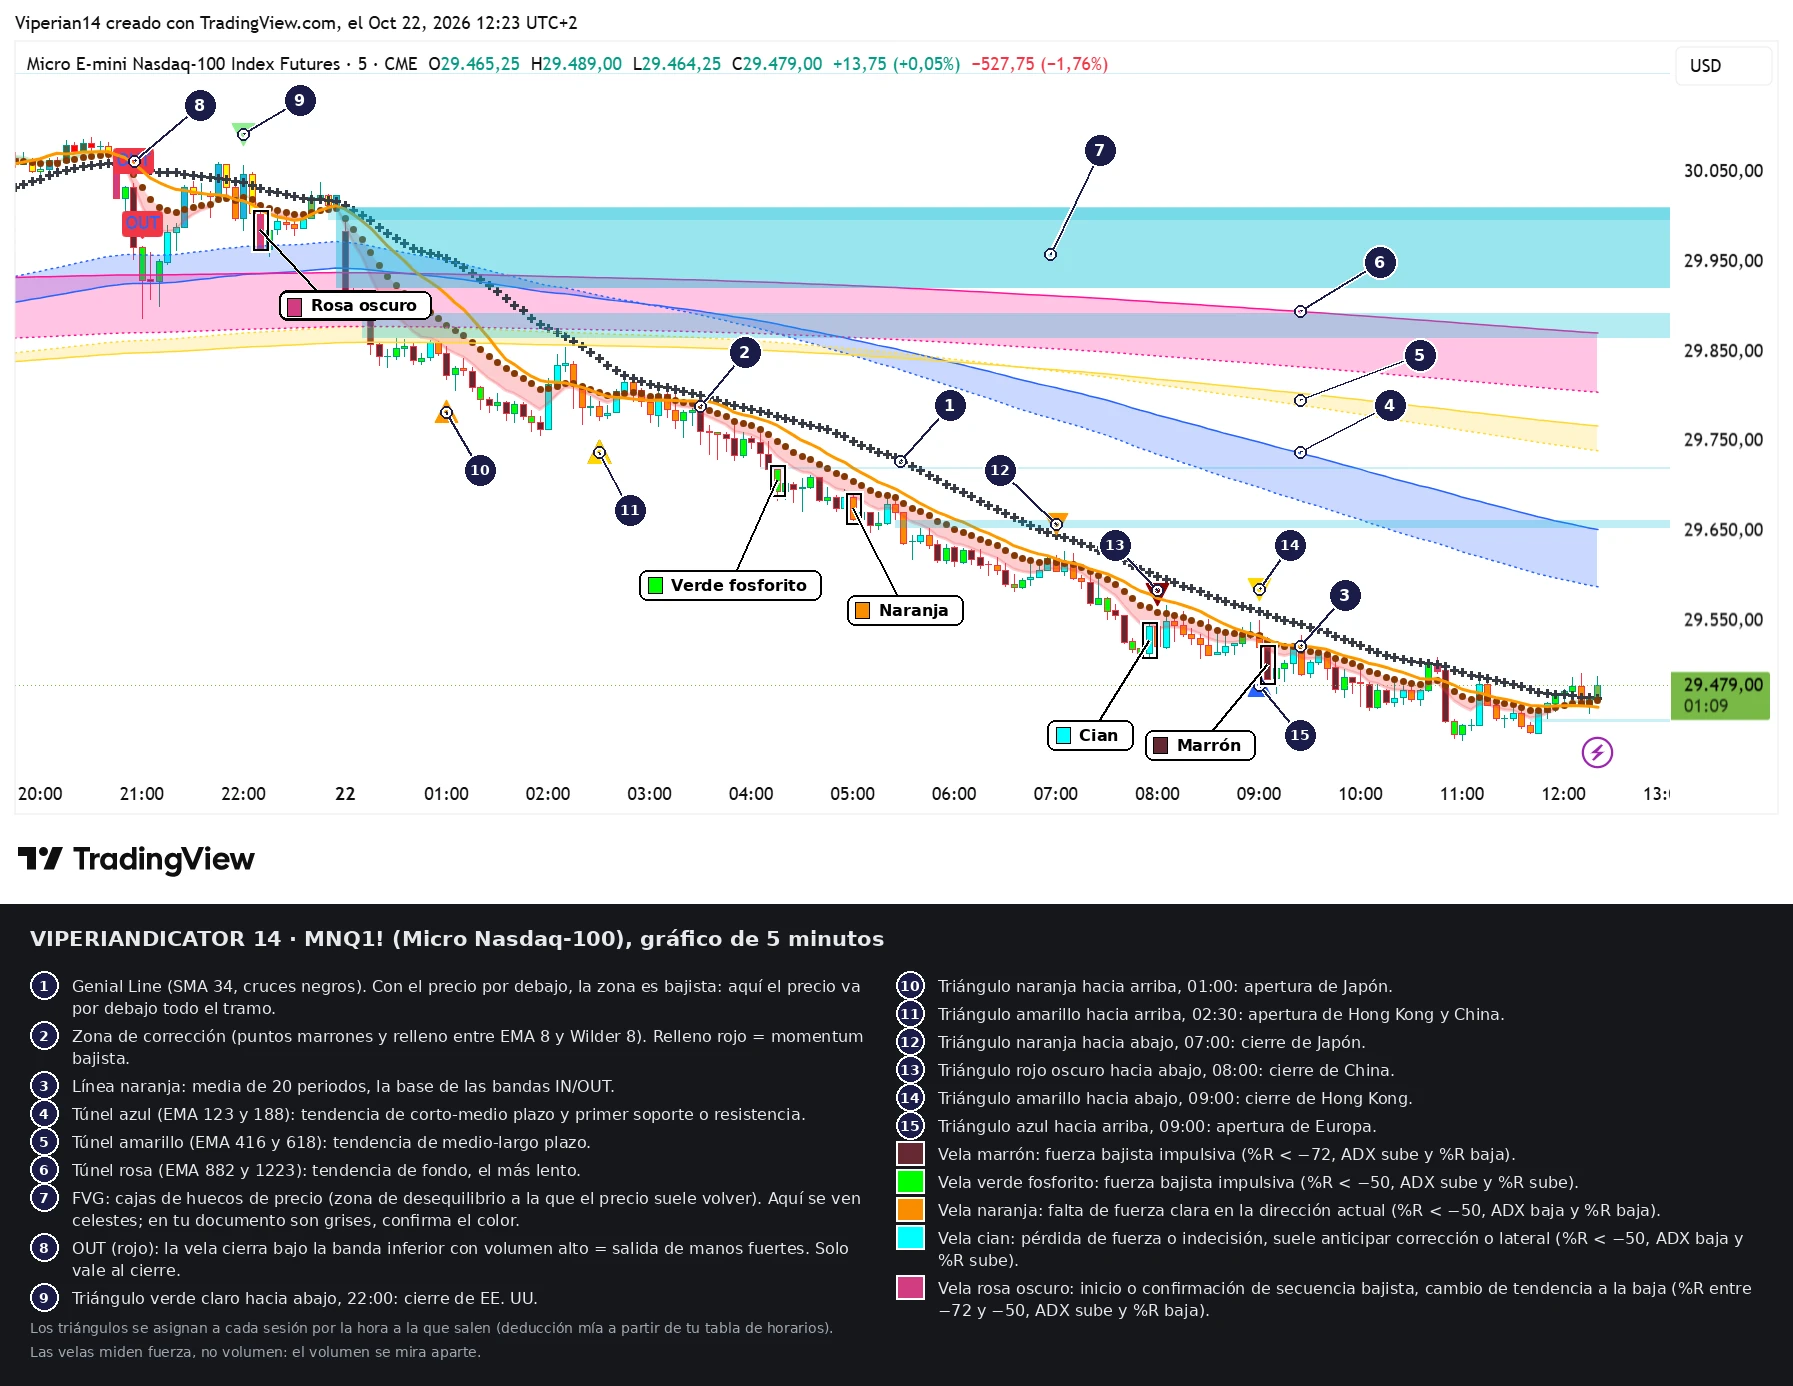
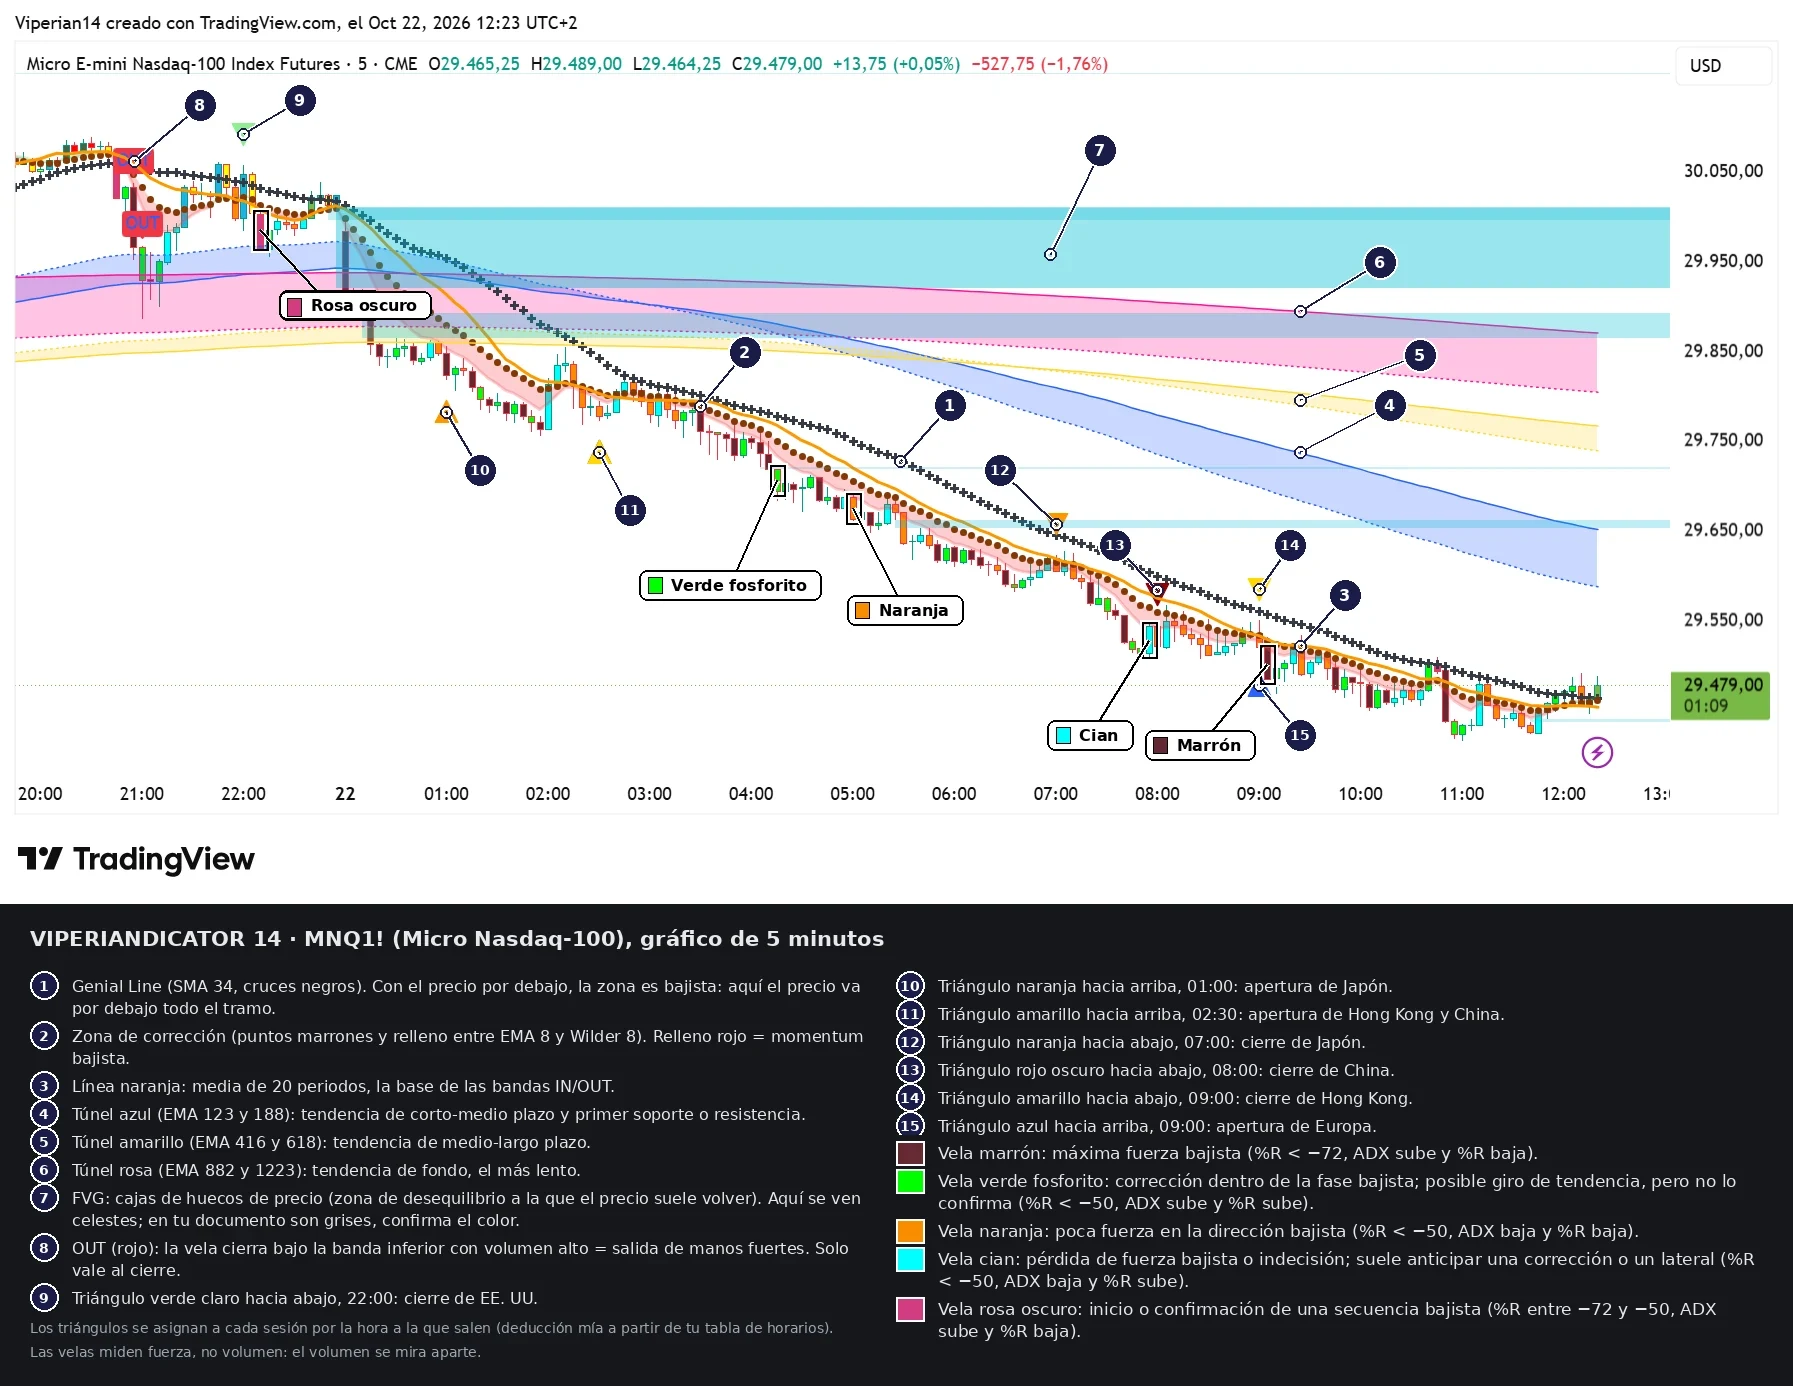
Biblioteca: nueva leyenda de colores de vela (alcistas y bajistas) (#67)
Tabla de la guía del indicador agrupada en alcistas y bajistas con los significados nuevos, y leyenda de las dos capturas anotadas corregida.

Claude-Session: https://claude.ai/code/session_01Xam4mPB3p5vRRJhZhnLMLw

Changed region(s): [[0.4997, 0.8066, 0.9682, 0.9618]]

diff --git a/biblioteca/viper.html b/biblioteca/viper.html
@@ -58,44 +58,50 @@
 </thead>
 <tbody>
 <tr>
+<td colspan="2"><strong>Alcistas</strong></td>
+</tr>
+<tr>
 <td><i class="sw" style="background:#466446"></i>Verde oscuro</td>
-<td>Máxima fuerza alcista dentro de una tendencia de subida</td>
+<td>Máxima fuerza alcista dentro de una tendencia alcista</td>
 </tr>
 <tr>
 <td><i class="sw" style="background:#78b946"></i>Verde</td>
-<td>Inicio o confirmación de una secuencia alcista (cambio de tendencia al alza)</td>
+<td>Inicio o confirmación de una secuencia alcista</td>
 </tr>
 <tr>
 <td><i class="sw" style="background:#ff0000"></i>Rojo</td>
-<td>Fuerza alcista durante una fase de corrección</td>
-</tr>
-<tr>
-<td><i class="sw" style="background:#642832"></i>Marrón</td>
-<td>Fuerza bajista impulsiva</td>
-</tr>
-<tr>
-<td><i class="sw" style="background:#00ff00"></i>Verde fosforito</td>
-<td>Fuerza bajista impulsiva</td>
-</tr>
-<tr>
-<td><i class="sw" style="background:#fffa00"></i>Amarillo</td>
-<td>Pérdida de fuerza o indecisión. Suele anticipar una corrección o un lateral</td>
+<td>Corrección dentro de la fase alcista (posible giro de tendencia, pero no lo confirma)</td>
 </tr>
 <tr>
 <td><i class="sw" style="background:#1eb4e6"></i>Azul claro</td>
-<td>Pérdida de fuerza o indecisión. Suele anticipar una corrección o un lateral</td>
+<td>Poca fuerza alcista</td>
 </tr>
 <tr>
 <td><i class="sw" style="background:#00ffff"></i>Cian</td>
-<td>Pérdida de fuerza o indecisión. Suele anticipar una corrección o un lateral</td>
+<td>Pérdida de fuerza bajista o indecisión. Suele anticipar una corrección o un lateral</td>
 </tr>
 <tr>
-<td><i class="sw" style="background:#fa8c00"></i>Naranja</td>
-<td>Falta de fuerza clara en la dirección actual del precio</td>
+<td colspan="2"><strong>Bajistas</strong></td>
 </tr>
 <tr>
 <td><i class="sw" style="background:#d23c82"></i>Rosa oscuro</td>
-<td>Inicio o confirmación de una secuencia bajista (cambio de tendencia a la baja)</td>
+<td>Inicio o confirmación de una secuencia bajista</td>
+</tr>
+<tr>
+<td><i class="sw" style="background:#642832"></i>Marrón</td>
+<td>Máxima fuerza bajista</td>
+</tr>
+<tr>
+<td><i class="sw" style="background:#00ff00"></i>Verde fosforito</td>
+<td>Corrección dentro de la fase bajista (posible giro de tendencia, pero no lo confirma)</td>
+</tr>
+<tr>
+<td><i class="sw" style="background:#fffa00"></i>Amarillo</td>
+<td>Pérdida de fuerza alcista o indecisión. Suele anticipar una corrección bajista o un lateral</td>
+</tr>
+<tr>
+<td><i class="sw" style="background:#fa8c00"></i>Naranja</td>
+<td>Poca fuerza en la dirección bajista</td>
 </tr>
 </tbody>
 </table></div>
